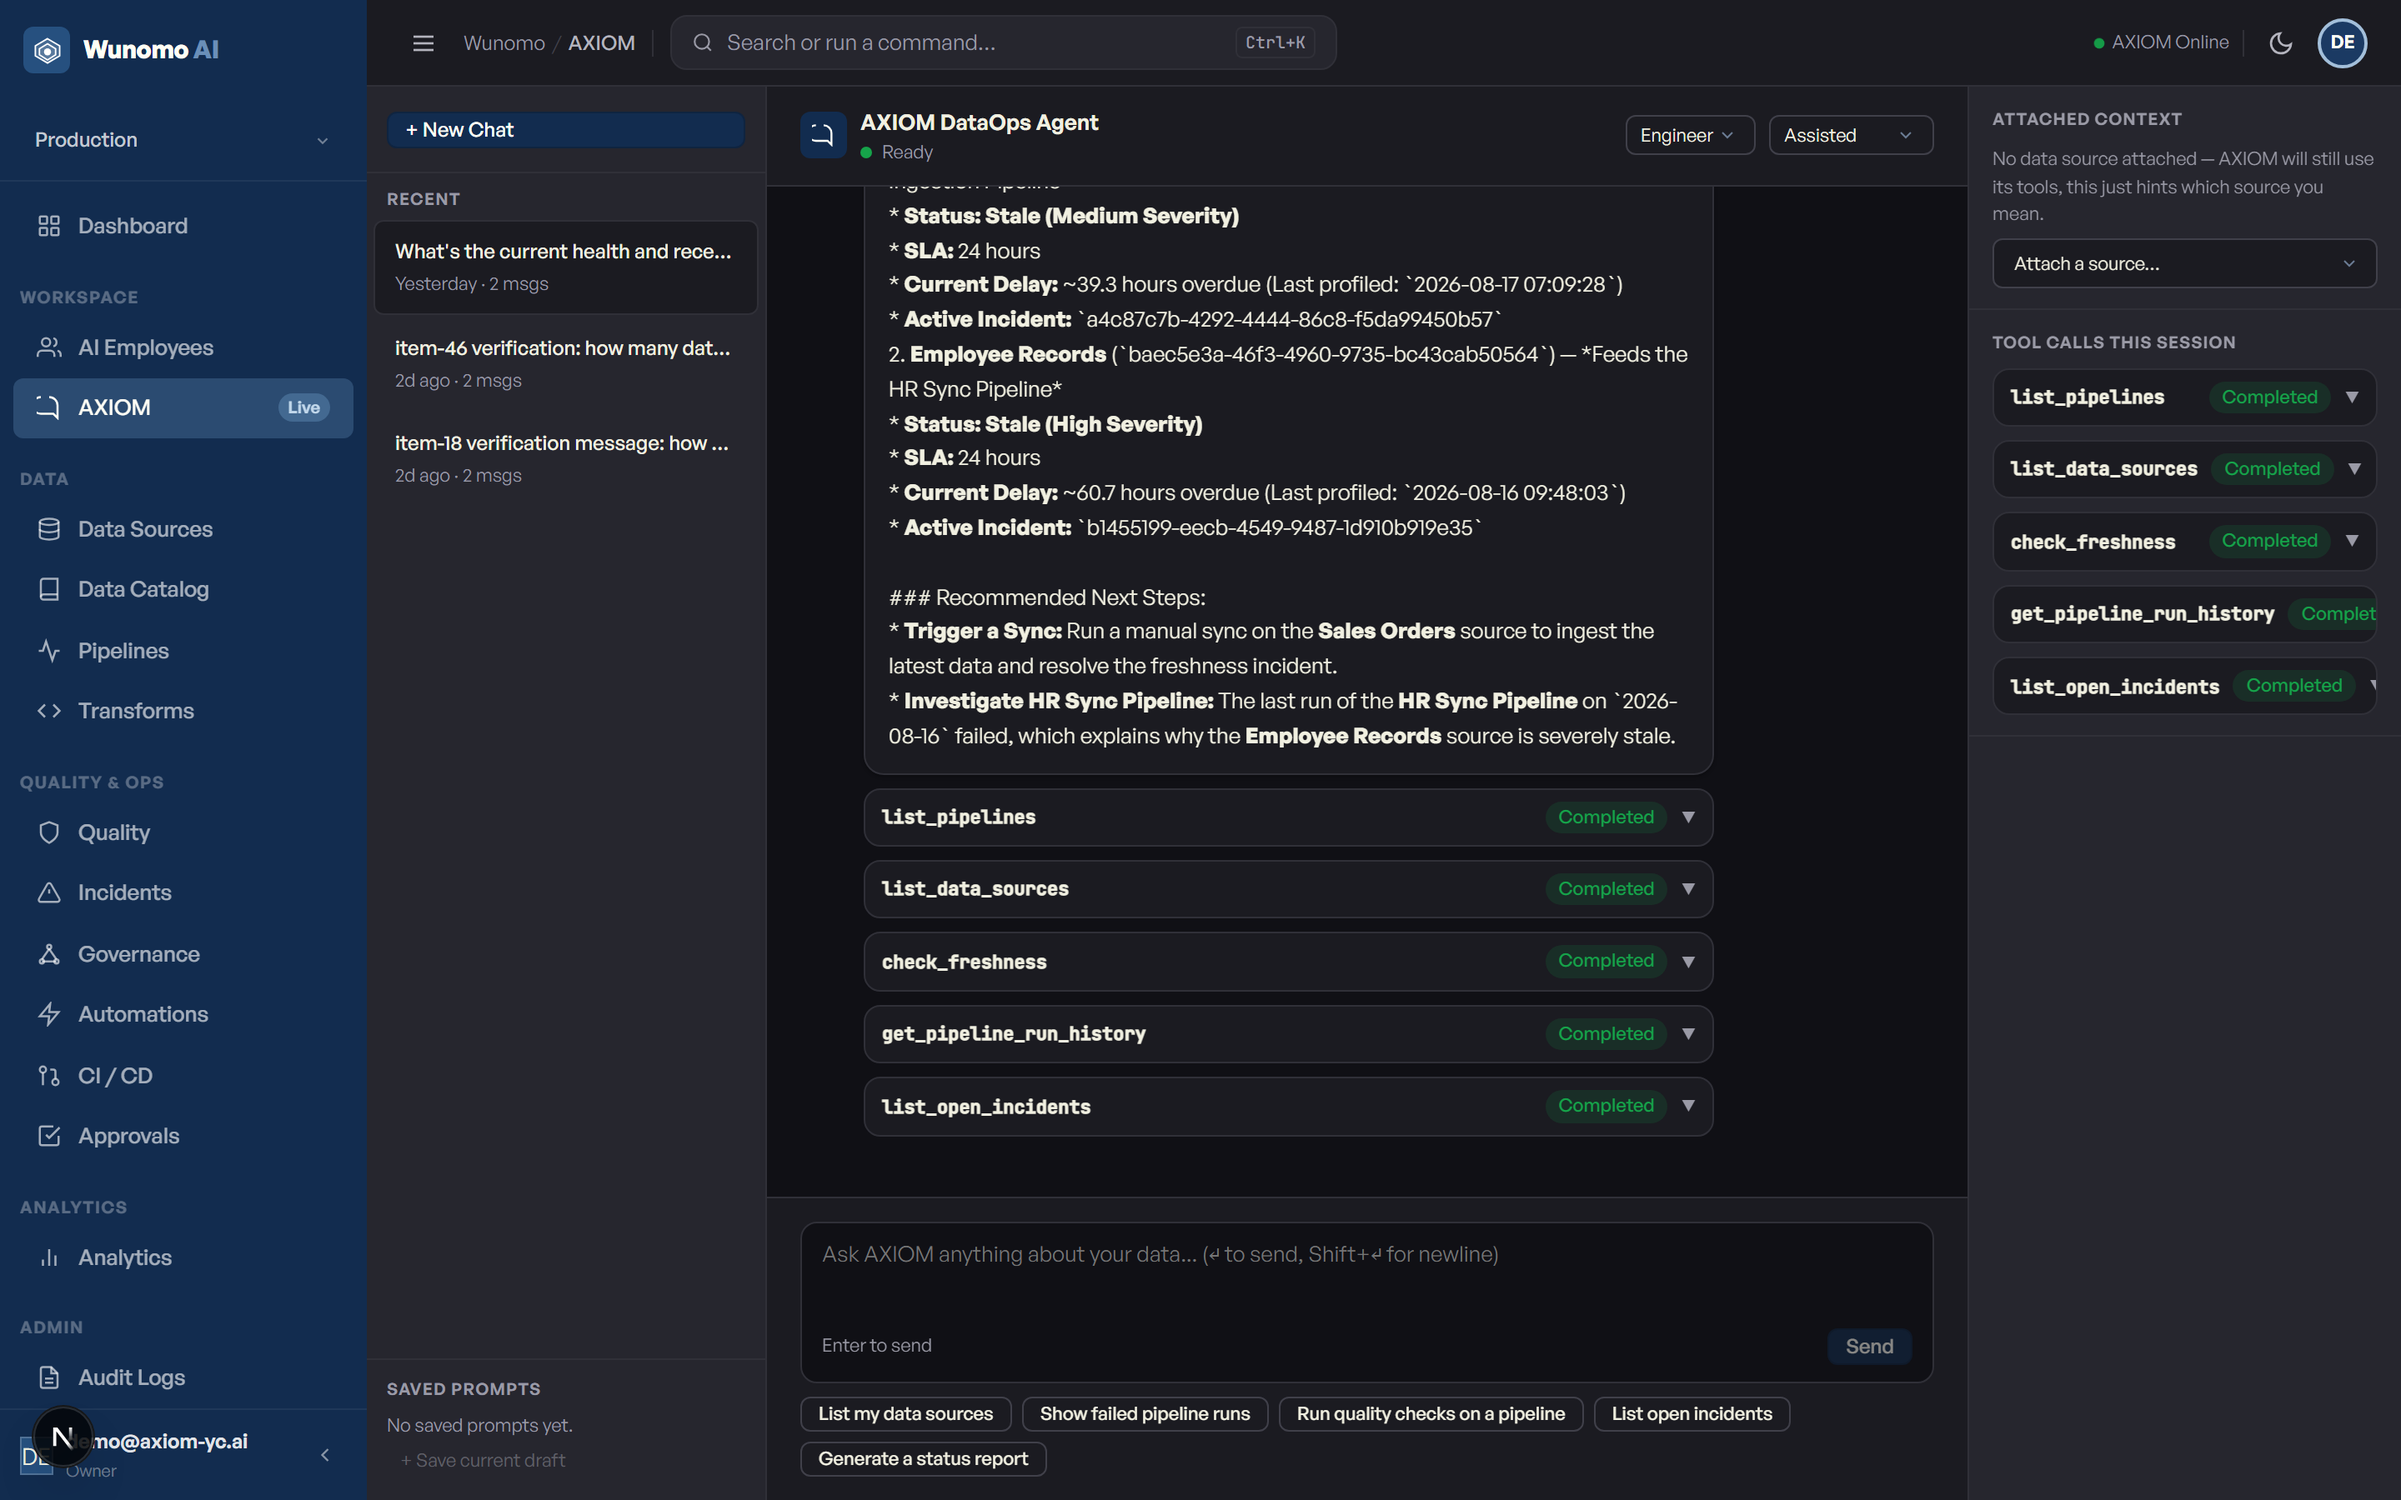
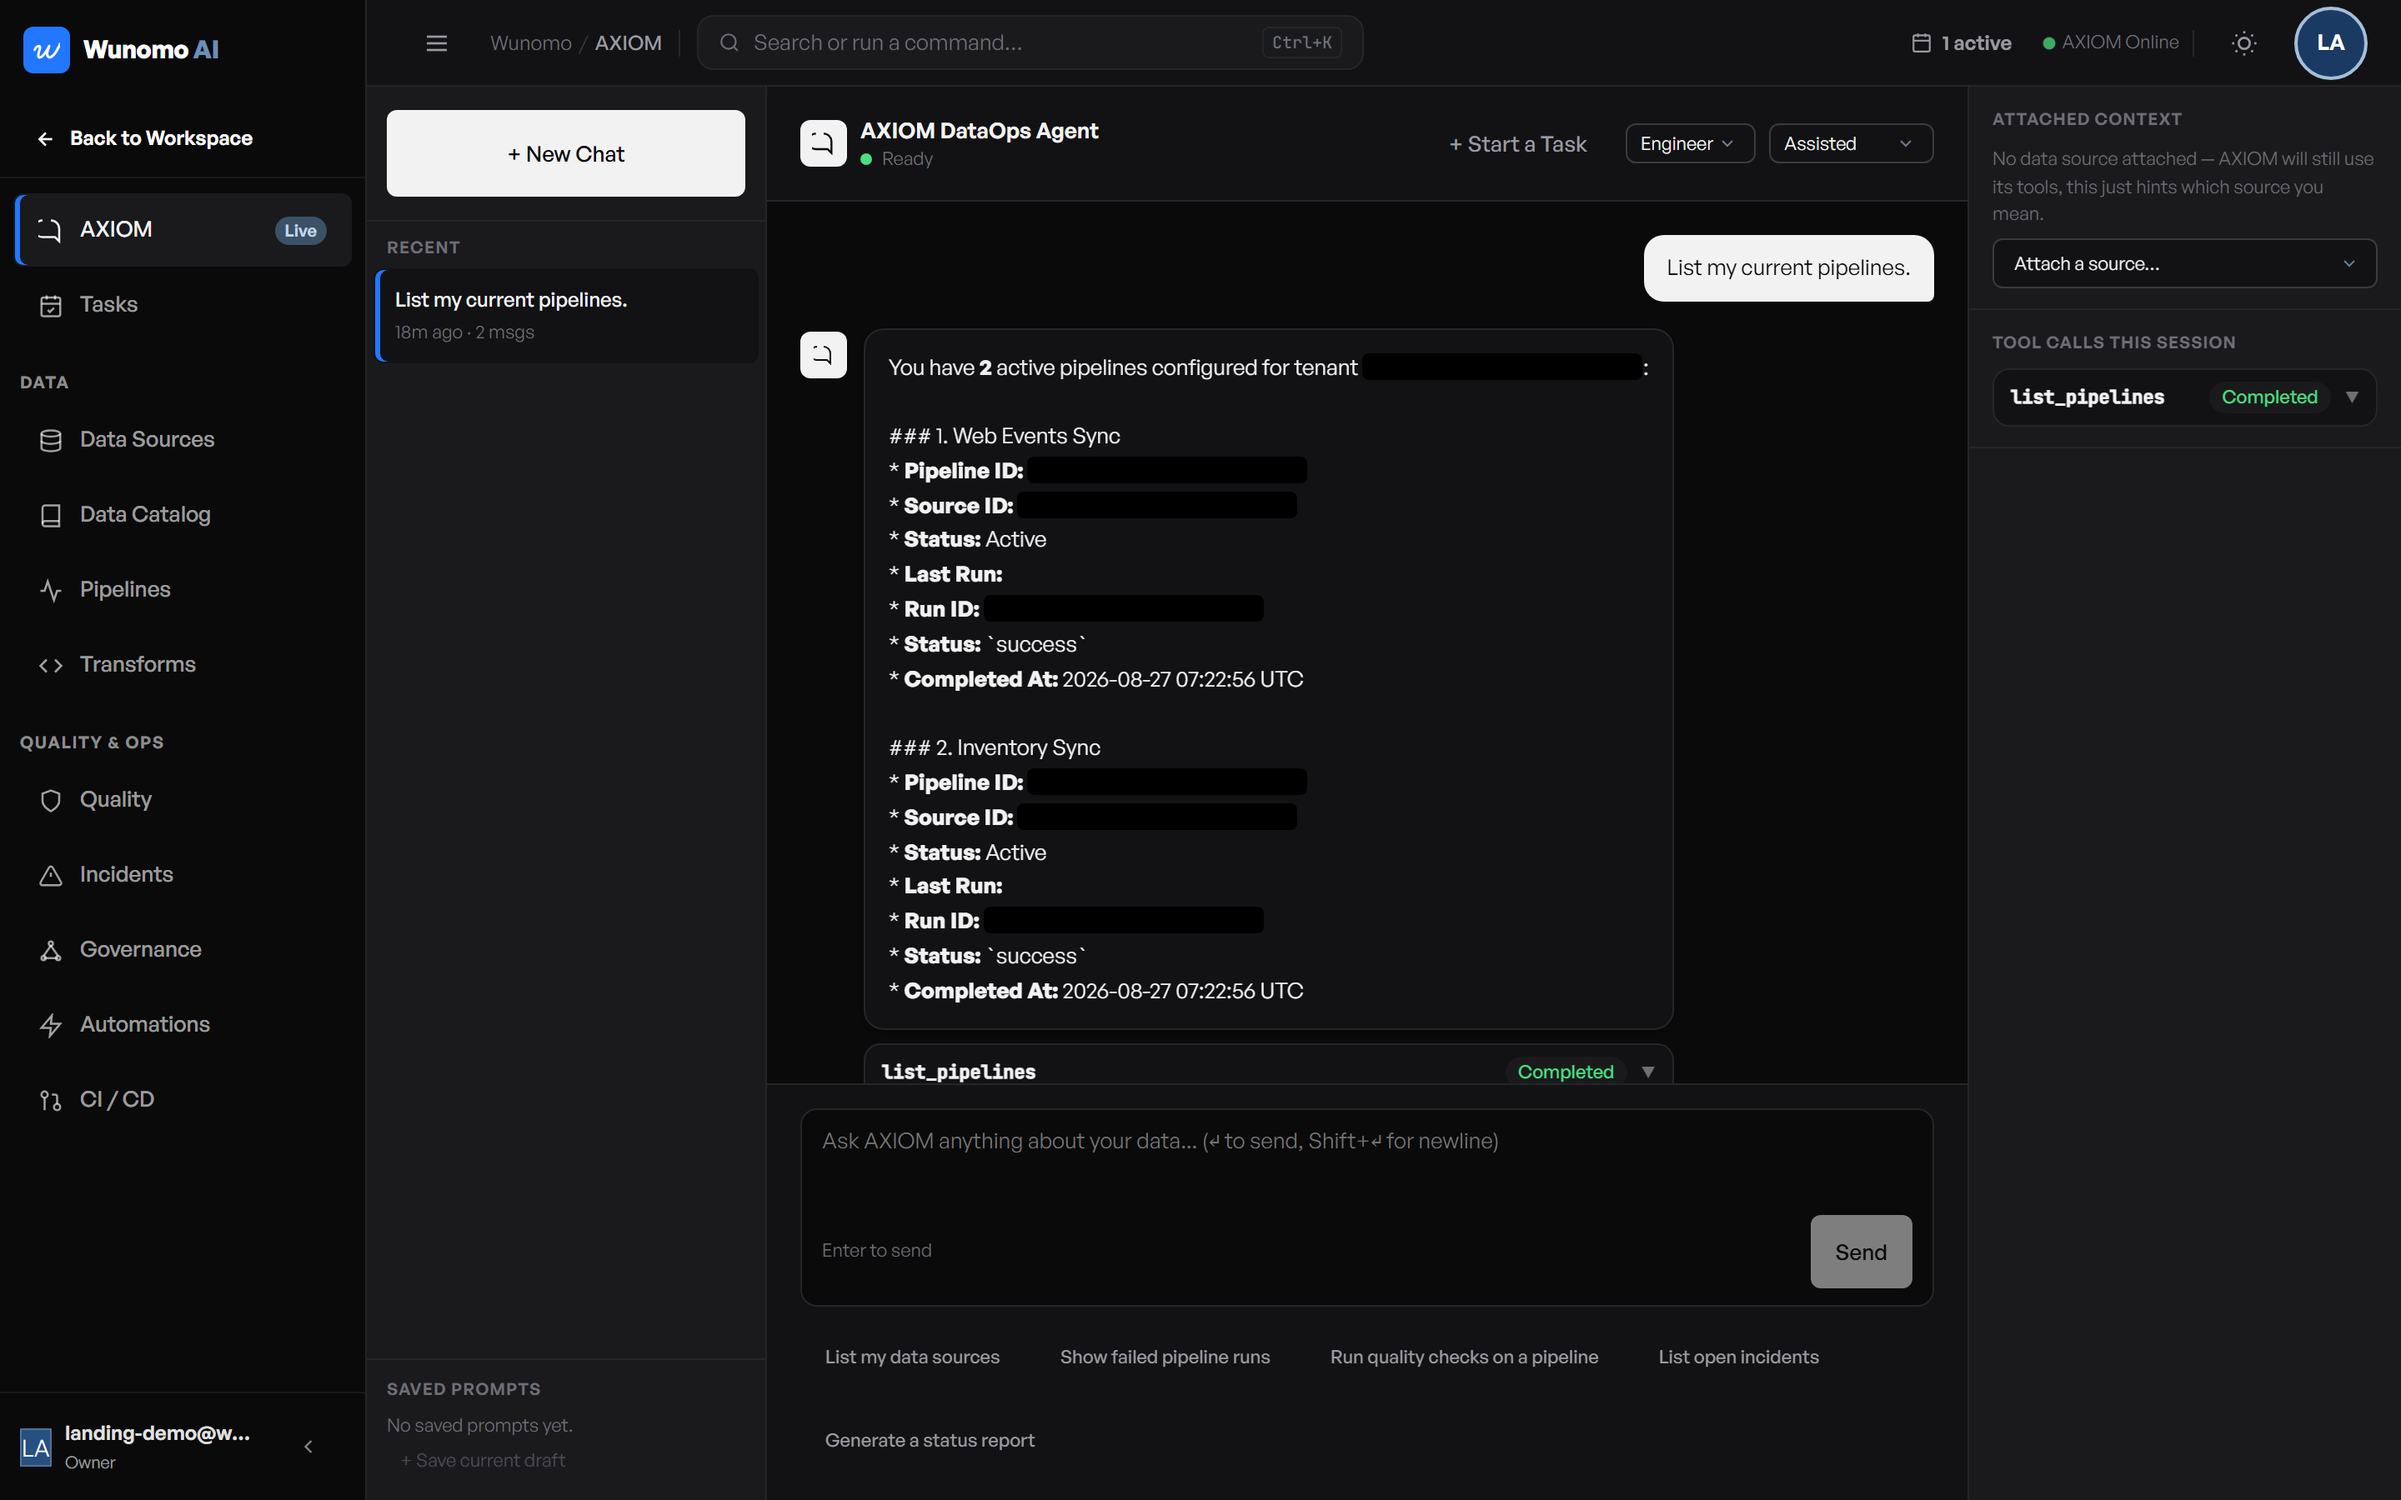
feat(marketing): widen product carousel, recapture all 5 screenshots
Same 5-screen capture pass as the product repo's own landing page (fresh
demo tenant, dark theme, 1440@2x - see
docs/context/WALKTHROUGH_FINDINGS_2026-08.md #65/#66), replacing the
pre-Futurewave 4-shot set (Dashboard/Chat/Pipelines/Governance) so both
sites show the same, current product. Widened the carousel frame
(980px fixed -> min(1200px,92vw)) to match, and added a section title
above it.

diff --git a/marketing-site/src/app/page.tsx b/marketing-site/src/app/page.tsx
@@ -41,11 +41,18 @@ const FEATURES = [
   },
 ];
 
+// 2026-08-27: same 5 screens as the product repo's own landing page, same
+// capture pass (fresh "Wunomo Product Demo" tenant, dark theme, 1440@2x) —
+// see dataops-agent/frontend/src/app/page.tsx and
+// docs/context/WALKTHROUGH_FINDINGS_2026-08.md #65/#66 for how they were
+// seeded. Replaces the pre-Futurewave 4-shot set (Dashboard/Chat/Pipelines/
+// Governance) so both sites show the same, current product.
 const SCREENSHOTS = [
-  { src: "/landing/shot-dashboard.png", title: "Dashboard", desc: "Real pipeline health, quality score, and AXIOM activity — no fabricated numbers." },
+  { src: "/landing/shot-dashboard.png", title: "Dashboard", desc: "Real pipeline health, quality score, and pending approvals — no fabricated numbers." },
   { src: "/landing/shot-chat.png", title: "AXIOM chat", desc: "A real conversation, with a visible trace of every tool call AXIOM made." },
   { src: "/landing/shot-pipelines.png", title: "Pipelines", desc: "Create, schedule, and trigger real pipelines with real run history." },
-  { src: "/landing/shot-governance.png", title: "Data lineage", desc: "Source-to-pipeline lineage, auto-populated as you connect data." },
+  { src: "/landing/shot-tasks.png", title: "Tasks", desc: "Real multi-step plans AXIOM generates, reviews, and executes with human approval on the risky steps." },
+  { src: "/landing/shot-quality.png", title: "Quality", desc: "Real quality rules against real data, with a real pass/fail record." },
 ];
 
 export default function LandingPage() {
@@ -101,6 +108,10 @@ export default function LandingPage() {
       </section>
 
       <section className="landing-section" aria-label="Product screenshots">
+        <div className="landing-section-header">
+          <div className="landing-eyebrow">See It Live</div>
+          <h2 className="font-display">See AXIOM in the product</h2>
+        </div>
         <ScreenshotCarousel slides={SCREENSHOTS} />
       </section>
 

diff --git a/marketing-site/src/styles/components.css b/marketing-site/src/styles/components.css
@@ -456,8 +456,11 @@ img { display: block; max-width: 100%; }
 .landing-feature h3 { font-size: 15px; font-weight: 600; margin-bottom: 8px; }
 .landing-feature p { font-size: 13.5px; color: var(--text-secondary); line-height: 1.55; }
 
-/* Product carousel */
-.landing-carousel { position: relative; max-width: 980px; margin: 0 auto; }
+/* Product carousel — widened 2026-08-27 (980px fixed -> min(1200px,92vw),
+   matching the product repo's own carousel) so real product UI (dense
+   tables, the full-width chat panel) renders legibly instead of cramped
+   into a narrower frame than the screenshots were captured at. */
+.landing-carousel { position: relative; max-width: min(1200px, 92vw); margin: 0 auto; }
 .landing-carousel-frame {
   border: 1px solid var(--border); border-radius: var(--radius-lg); overflow: hidden;
   background: var(--surface); box-shadow: var(--shadow-lg);
